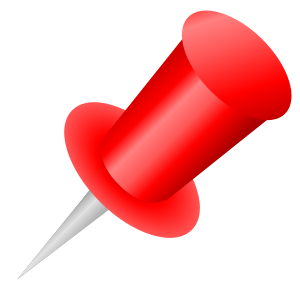
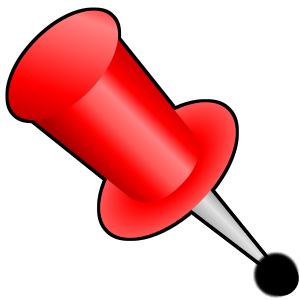
Various style changes, added delete control on left pin, lock control on right pin.

diff --git a/script.js b/script.js
@@ -11,6 +11,9 @@ $(function() {
 	ctx.fillStyle=bgPat;
 	ctx.fill();
 	*/
+	
+	var borderThick = 8;
+	
 	var lastId = 0;
 	var notes;
 	var lastHeight = 0;
@@ -18,11 +21,22 @@ $(function() {
 		notes = new Array();
 	else {
 		notes = JSON.parse(localStorage.getItem("notes"));
+		console.log(notes);
 		notes.forEach(function(currNote, ind,arr) {		
-			lastId++;
+			if(currNote.id > lastId) {
+				lastId = currNote.id;
+			}
 			if(currNote.z > lastHeight)
 				lastHeight = currNote.z;
-			noteHtml = "<textarea data-id = "+currNote.id+" class='note' style = 'width:"+currNote.width+"px;height:"+currNote.height+"px; position:absolute; top:"+currNote.y+"px;left:"+currNote.x+"px;z-index:"+currNote.z+"'>"+currNote.content+"</textarea>";
+			noteHtml = $("<div class = 'note-container' data-id = "+currNote.id+" style = 'position:absolute; top:"+currNote.y+"px;left:"+currNote.x+"px;z-index:"+currNote.z+"' ><textarea class='note-body' style='width:"+currNote.width+"px;height:"+currNote.height+"px;'>"+currNote.content+"</textarea></div>");
+			$(noteHtml).append("<img src = 'pin.png' data-id = "+currNote.id+"  class = \"control-pin\"/>");
+			if(currNote.pinned) {
+				$(noteHtml).append("<img src = 'pin-right.png' data-id = "+currNote.id+"  class = \"lock-pin\"/>");
+			}
+			else {
+				$(noteHtml).append("<img src = 'pin-right-hole.png' data-id = "+currNote.id+"  class = \"lock-pin-gone\"/>");
+			}
+			
 			console.log(currNote.content);
 			$("div#canvas").append(noteHtml);
 		});
@@ -33,7 +47,7 @@ $(function() {
 	var dragTarget;
 	var dragOffsetX = 0;
 	var dragOffsetY = 0;
-	var Note = function(x,y,h,w,content,z){		
+	var Note = function(x,y,h,w,content,z,pinned){		
 		this.id = ++lastId;
 		this.x = x;
 		this.y = y;
@@ -41,19 +55,104 @@ $(function() {
 		this.width = w;
 		this.content = content;
 		this.z = z;
+		this.pinned = pinned;
 	}
 	
-	$("div#canvas").on("click",".note", function(event) {
-		//console.log("?");
+	var SaveData = function() {
+		localStorage.setItem("notes",JSON.stringify(notes));
+	}
+	
+	var DeleteItem = function(dataId) {
+
+		var targNote = notes.findIndex(function(elem) {
+			return elem.id == dataId;
+		});
+		var target = $(".note-container").filter(function(elem) {			
+			return $(this).attr("data-id") == dataId;
+		});
+		if(notes[targNote].pinned == false) {
+			notes.splice(targNote,1);
+			$(target).remove();	
+		}
 		
+		
+		
+		SaveData();
+	}
+	$("div#canvas").on("mouseover",function(event) {
+		/*
+		console.log("{");
+		console.log("ScreenX",event.screenX,"ScreenY",event.screenY);
+		console.log("ClientX",event.clientX,"clientY",event.clientY);
+		console.log("PageX",event.pageX,"pageY",event.pageY);
+		console.log("OffsetX",event.offsetX,"OffsetY",event.offsetY);
+		console.log("ScrollLeft+ClientX",event.clientX+$("#canvas").scrollLeft(),"ScrollTop+ClientY",event.clientY+$("#canvas").scrollTop());
+		console.log("}");
+		*/
+		
+	});
+	$("div#canvas").on("click",".control-pin",function(event) {
+		DeleteItem($(this).attr("data-id"));
+		event.stopImmediatePropagation();
+	});
+	
+	$("div#canvas").on("mousedown",".control-pin",function(event) {
+		
+		event.stopImmediatePropagation();
+	});
+	
+	
+	$("div#canvas").on("click","img.lock-pin-gone",function(event) {
+		$(this).removeClass("lock-pin-gone").addClass("lock-pin");
+		$(this).attr("src","pin-right.png");
+		var tId = $(this).attr("data-id");
+		var targNote = notes.findIndex(function(elem) {
+			return elem.id == tId;
+		});
+		notes[targNote].pinned = true;
+		SaveData();
+		event.stopImmediatePropagation();
+	});
+	
+	$("div#canvas").on("click","img.lock-pin",function(event) {
+		$(this).removeClass("lock-pin").addClass("lock-pin-gone");
+		$(this).attr("src","pin-right-hole.png");
+		var tId = $(this).attr("data-id");
+		var targNote = notes.findIndex(function(elem) {
+			return elem.id == tId;
+		});
+		notes[targNote].pinned = false;
+		SaveData();
+		event.stopImmediatePropagation();
+	});
+	
+	$("div#canvas").on("click",".note-container", function(event) {
+		//console.log("?");
+		console.log("click-note-container");
 		event.stopImmediatePropagation();		
 	});
-	$("div#canvas").on("mousedown",".note", function(event) {
-		//console.log("?");
+	
+	$("div#canvas").on("mousedown",".note-body", function(event) {
+		console.log("mousedown-note-body");
+		event.stopImmediatePropagation();		
+	});
+	
+	$("div#canvas").on("mouseup",".note-body", function(event) {
+		console.log("MouseUp, note-body");
+		//event.stopImmediatePropagation();		
+	});
+	
+	$("div#canvas").on("mousedown",".note-container", function(event) {
+		//console.log("mousedown-note-container");
 		var tHeight = $(this).height();
 		var tTop = $(this).css("top").slice(0,-2);
+		var tId = $(this).attr("data-id");
+		var targNote = notes.findIndex(function(elem) {
+			return elem.id == tId;
+		});
+		console.log(notes[targNote]);
 		$(this).css("z-index",++lastHeight);
-		if(event.clientY < tHeight+(tTop-16)) {
+		if(event.clientY < tHeight+(tTop-20) && (notes[targNote].pinned == false)) {
 			isDraggingNote = 1;
 			dragTarget = this;
 		}
@@ -64,8 +163,8 @@ $(function() {
 		//console.log("?");
 		if(isDraggingNote == 1) {
 			isDraggingNote = 2;
-			dragOffsetX = event.offsetX;
-			dragOffsetY = event.offsetY;
+			dragOffsetX = event.offsetX+borderThick;
+			dragOffsetY = event.offsetY+borderThick;
 		}
 		if(isDraggingNote == 2) {
 			var tId = $(dragTarget).attr("data-id");
@@ -75,13 +174,13 @@ $(function() {
 			
 			
 			
-			var x = event.clientX-dragOffsetX;
+			var x = event.clientX-dragOffsetX + $("#canvas").scrollLeft();
 			//var x = event.clientX-100;
 			//var y = event.clientY-16;
-			var y = event.clientY-dragOffsetY;
-			console.log("1",event.clientX,dragOffsetX),
-			console.log("1",event.clientY,dragOffsetY),
-			console.log("3",x,y)
+			var y = event.clientY-dragOffsetY + $("#canvas").scrollTop();
+			//console.log("1",event.clientX,dragOffsetX),
+			//console.log("1",event.clientY,dragOffsetY),
+			//console.log("3",x,y)
 			$(dragTarget).css("top",y);
 			$(dragTarget).css("left",x);
 			
@@ -91,26 +190,31 @@ $(function() {
 		}
 		event.stopImmediatePropagation();		
 	});
-	$("div#canvas").on("mouseup",".note", function(event) {
-		//console.log("?");
-		isDraggingNote = 0;
-		var tId = $(dragTarget).attr("data-id");
-		var targNote = notes.findIndex(function(elem) {
-			return elem.id == tId;
-		});
-		notes[targNote].width = $(dragTarget).width();
-		notes[targNote].height = $(dragTarget).height();
-		notes[targNote].z = $(dragTarget).css("z-index");
-		localStorage.setItem("notes",JSON.stringify(notes));
-		event.stopImmediatePropagation();		
-	});
-	$("div#canvas").on('change keyup paste',".note", function(event) {
-		console.log("!!!")
+	$("div#canvas").on("mouseup",".note-container", function(event) {
+		console.log("Mouse-up, note container?");
+		if(isDraggingNote != 0) {
+			isDraggingNote = 0;
+		}
 		var tId = $(this).attr("data-id");
 		var targNote = notes.findIndex(function(elem) {
 			return elem.id == tId;
 		});
-		notes[targNote].content = $(this).val();
+		console.log("Note Container");
+		notes[targNote].width = $(this).width()-40;
+		notes[targNote].height = $(this).height();
+		notes[targNote].z = $(this).css("z-index");
+		localStorage.setItem("notes",JSON.stringify(notes));
+		
+		
+		event.stopImmediatePropagation();		
+	});
+	$("div#canvas").on('change keyup paste',".note-container", function(event) {
+		//console.log("!!!")
+		var tId = $(this).attr("data-id");
+		var targNote = notes.findIndex(function(elem) {
+			return elem.id == tId;
+		});
+		notes[targNote].content = $(this).children(".note-body").val();
 		localStorage.setItem("notes",JSON.stringify(notes));
 	});
 	
@@ -120,11 +224,11 @@ $(function() {
 		var h = 300;
 		var x = event.clientX - (w/2);
 		var y = event.clientY - 15;
-		var newNote = new Note(x,y,h,w,"",++lastHeight);
+		var newNote = new Note(x,y,h,w,"",++lastHeight,false);
 		//console.log(newNote);
 		
-		noteHtml = "<textarea data-id = "+newNote.id+" class='note' style = 'width:"+newNote.width+"px;height:"+newNote.height+"px; position:absolute; top:"+newNote.y+"px;left:"+newNote.x+"px;z-index="+newNote.z+"'></textarea>";
-		
+		noteHtml = $("<div data-id = "+newNote.id+" class = 'note-container' style = 'position:absolute; top:"+newNote.y+"px;left:"+newNote.x+"px;z-index="+newNote.z+"'><textarea class='note-body' style='width:"+newNote.width+"px;height:"+newNote.height+"px;'></textarea></div>");
+		$(noteHtml).append("<img src = 'pin.png' data-id = "+newNote.id+"  class = \"control-pin\"/>");
 		notes.push(newNote);
 		localStorage.setItem("notes",JSON.stringify(notes));
 		$("div#canvas").append(noteHtml);

diff --git a/style.css b/style.css
@@ -13,6 +13,7 @@ div {
 .app {
 	border:8px solid darkred;
 	height:100%;
+   position:relative;
 }
 
 .hidden {
@@ -23,19 +24,47 @@ div#canvas {
 	width:100%;
 	height:100%;
 	background-image:url("fzm-seamless.corkboard.texture-01-[800x800].jpg");
+   position:relative;
+   overflow:scroll;
+   background-attachment: local;/*Check browser support for this*/
 }
 
-.note {
-	background-color:white;
+.note-body {
+   min-height:32px;
+   min-width:128px;
+   width:100%;
+   height:100%;
+   padding: 00px 20px;
+  	background-color:#ffa;
+   margin-bottom: -4px;
+   border:0;
+   outline: none;
+}
+
+.note-container {
+   min-height:32px;
+   min-width:128px;
 	border:2px solid #ddd;
 	box-shadow: 8px 8px 16px #400;
 	border: none;	
+   /*background-image:url("bgtime.png");*/
+   background-color:#eaeaa0;
+   padding-top:24px;
+   cursor:pointer;
 }
 
-.notecontainer > img {
-	position:relative;
-	right:0px;
+.note-container > img.control-pin {
+	position:absolute;
+   top:-16px;
+	left:-16px;
 	width:32px;
-	height:32px;
-	
+	height:32px;	
+}
+
+.note-container > img.lock-pin-gone, .note-container > img.lock-pin {
+	position:absolute;
+   top:-16px;
+	right:-16px;
+	width:32px;
+	height:32px;	
 }
